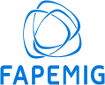
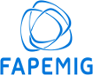
inclusão das questões de páginas interativas

diff --git a/sistema/web/resources/default/css/core.css b/sistema/web/resources/default/css/core.css
@@ -383,29 +383,6 @@ INDEX***********************/
 }
 
 
-.mainlogos{
-    border: #fff;
-    margin: 0 5px 0 5px;
-    padding-right:15px;
-    padding-top:40px;
-}
-
-#mainufjf {
-    height:85px;
-}
-
-#maincrepeia{
-    height:80px;
-}
-
-#maincsf {
-    height:75px;
-}
-
-#mainfapemig {
-    height:85px;
-}
-
 #signup h1{
 	padding-left: 5px; 
 }
@@ -657,7 +634,7 @@ LEFTMENUS***********************/
 	box-shadow: 1px 0px 8px rgba(0,0,0,0.15);
 	padding:0;
 	border-radius: 4px;  
-	list-style: none;
+	list-style: disc;
 	position: relative;
 }
 
@@ -767,23 +744,13 @@ img#artigotabaco{
     padding:0 0 50px 0;
     margin-left: auto;
     margin-right: auto;
-    width: 608px;
+    width: 780px;
 }
 
-#crepeia{
-    float:left;
-    height: 80px;
+#logoscenter img {
+    padding: 0 10px 0 10px;
 }
 
-#ufjf {
-    float:left;
-    height:85px;
-}
-
-#csf{
-    float:left;
-    height: 80px;
-}
 
 #btngen {
     display:block;
@@ -806,8 +773,6 @@ img#artigotabaco{
 #btngen:hover {
    background: #3b68a0 ;
 }
-
-
 
 /*QUEM SOMOS*/
 .pesquisadores {

diff --git a/fluxogramas/lista-paginas-interativas.md b/fluxogramas/lista-paginas-interativas.md
@@ -1,0 +1,119 @@
+Páginas interativas
+---------------------
+
+Preparando para ação
+====================
+
+Avaliar comorbidades
+####################
+
+Questões em formato radio - 
+1. Você já foi diagnosticado com depressão por um profissional de saúde?
+2. Você já foi diagnosticado com ansiedade por um profissional de saúde?
+
+
+Respostas possíveis
+0 - Não
+1 - Sim
+
+Ação
+Se responder sim para qualquer uma das questões, abrir feedback com a mensagem "aconselhar parar de fumar com ajuda de profissional de saúde".
+
+
+Pronto para ação
+=======================
+
+
+Porque desejo fumar 
+#######################
+
+Questões divididas em duas colunas com 4 campos de texto cada campo com limite de 300 caracteres.
+
+Questão coluna 1 - Por que desejo fumar?
+Questão coluna 2 - Por que desejo parar de fumar?
+
+Ação
+Registrar resposta para adicionar na página relatório
+
+
+Data para parar
+#######################
+
+Questão em formato de <select><option> (dia e mês)
+1. Escolha uma data para parar de fumar
+- predefinição - data do acesso
+
+
+Ação
+Registrar resposta para adicionar na página relatório
+
+
+Como enfrentar a fissura
+########################
+
+Questão no formato "checkbox"
+Técnicas de enfretamento a abstinência escolhidas
+* Beber um copo de água pausadamente
+* Finalmente, respire fundo para relaxar
+* Preparar uma pequena porção de comida como frutas cristalizadas e cenoura cortada
+* Ler a lista de razões de ter parado de fumar
+* Exercício de relaxamento em audio. Download.
+* Entrar em contato com um amigo ou familiar parceiro durante a parada
+
+
+Ação
+Registrar resposta para adicionar na página relatório
+
+
+Medo de recair
+#########################
+
+Pergunta em formato de radio
+Você já tentou parar de fumar outras vezes?
+
+Respostas possíveis
+0 - Não
+1 - Sim
+
+Ações
+Se não, ir para próxima página.
+Se sim, responder a questão abaixo:
+
+Questão em formato de texto
+Se você já tentou parar de fumar outras vezes, quais ações que você realizou que deram mais certo?
+
+Questão coluna 1 - Por que desejo fumar?
+Questão coluna 2 - Por que desejo parar de fumar?
+
+Ação
+Registrar resposta para adicionar na página relatório
+
+
+
+Acompanhamento
+====================
+
+Identificar motivos
+####################
+
+Questão
+Identificar motivos que levaram a recaída em forma de pequenos tópicos de texto 300 caracteres
+
+Ação
+Registrar resposta para adicionar na página relatório
+
+Identificar estratégias
+#######################
+
+Questão
+Identificar estratégias para lidar com a recaída em forma de pequenos tópicos de texto 300 caracteres
+
+Ação
+Registrar resposta para adicionar na página relatório
+
+
+
+
+
+
+
